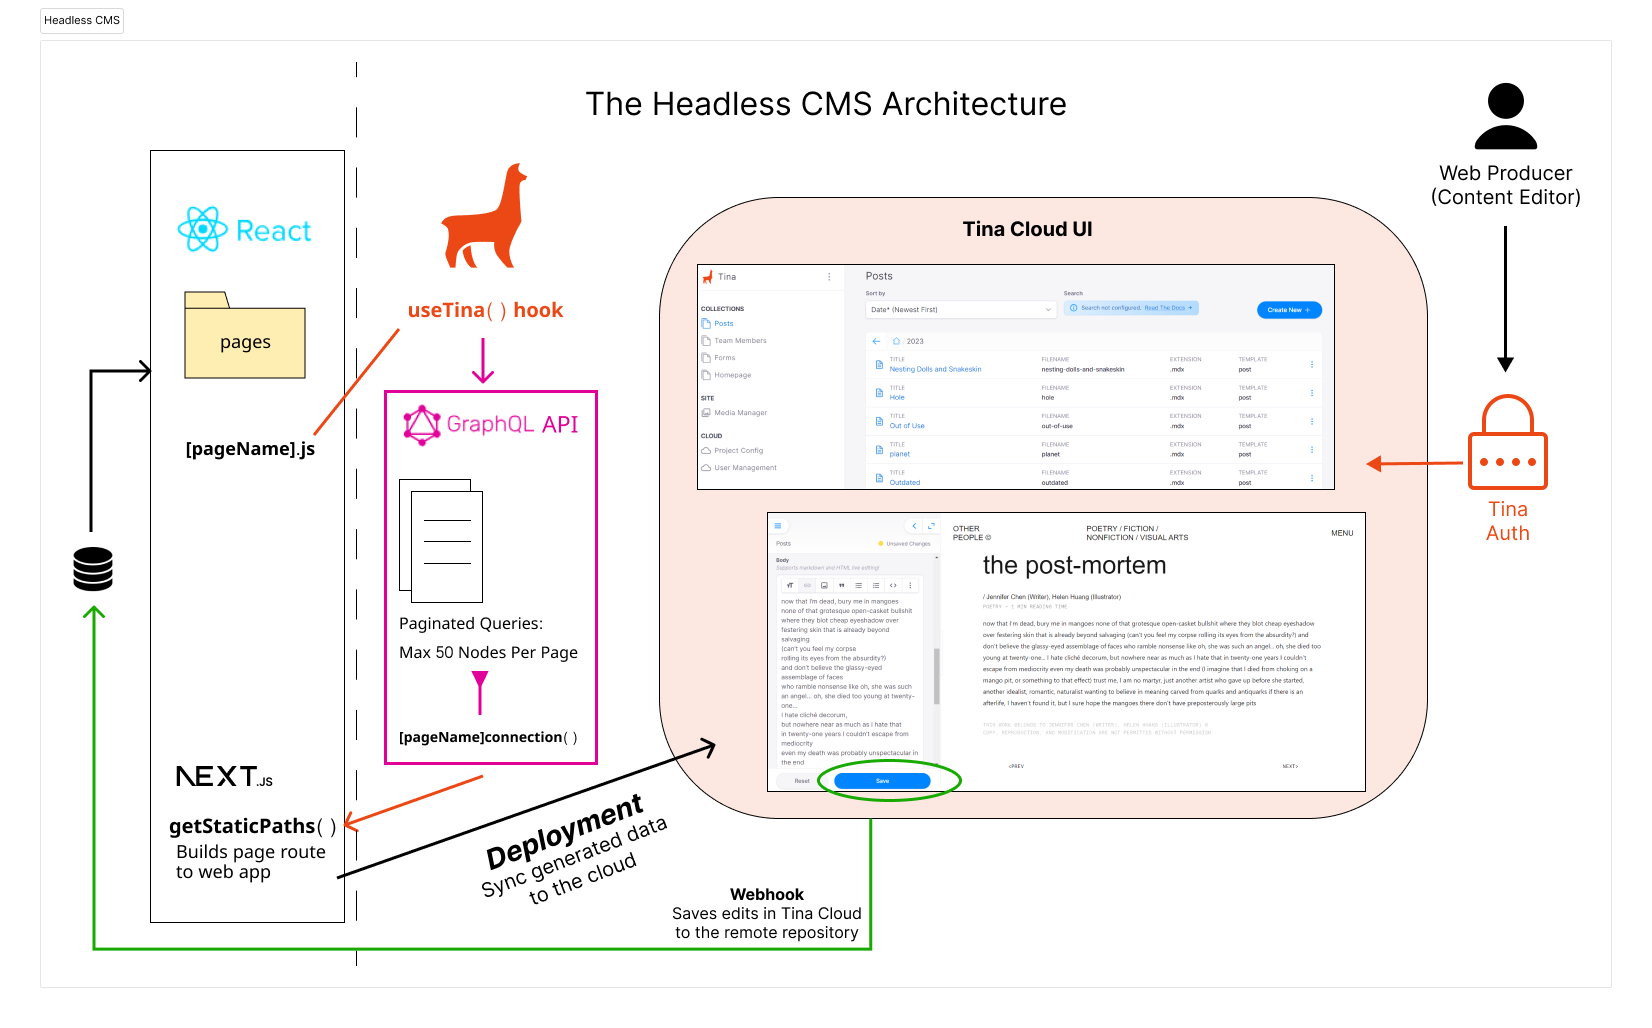
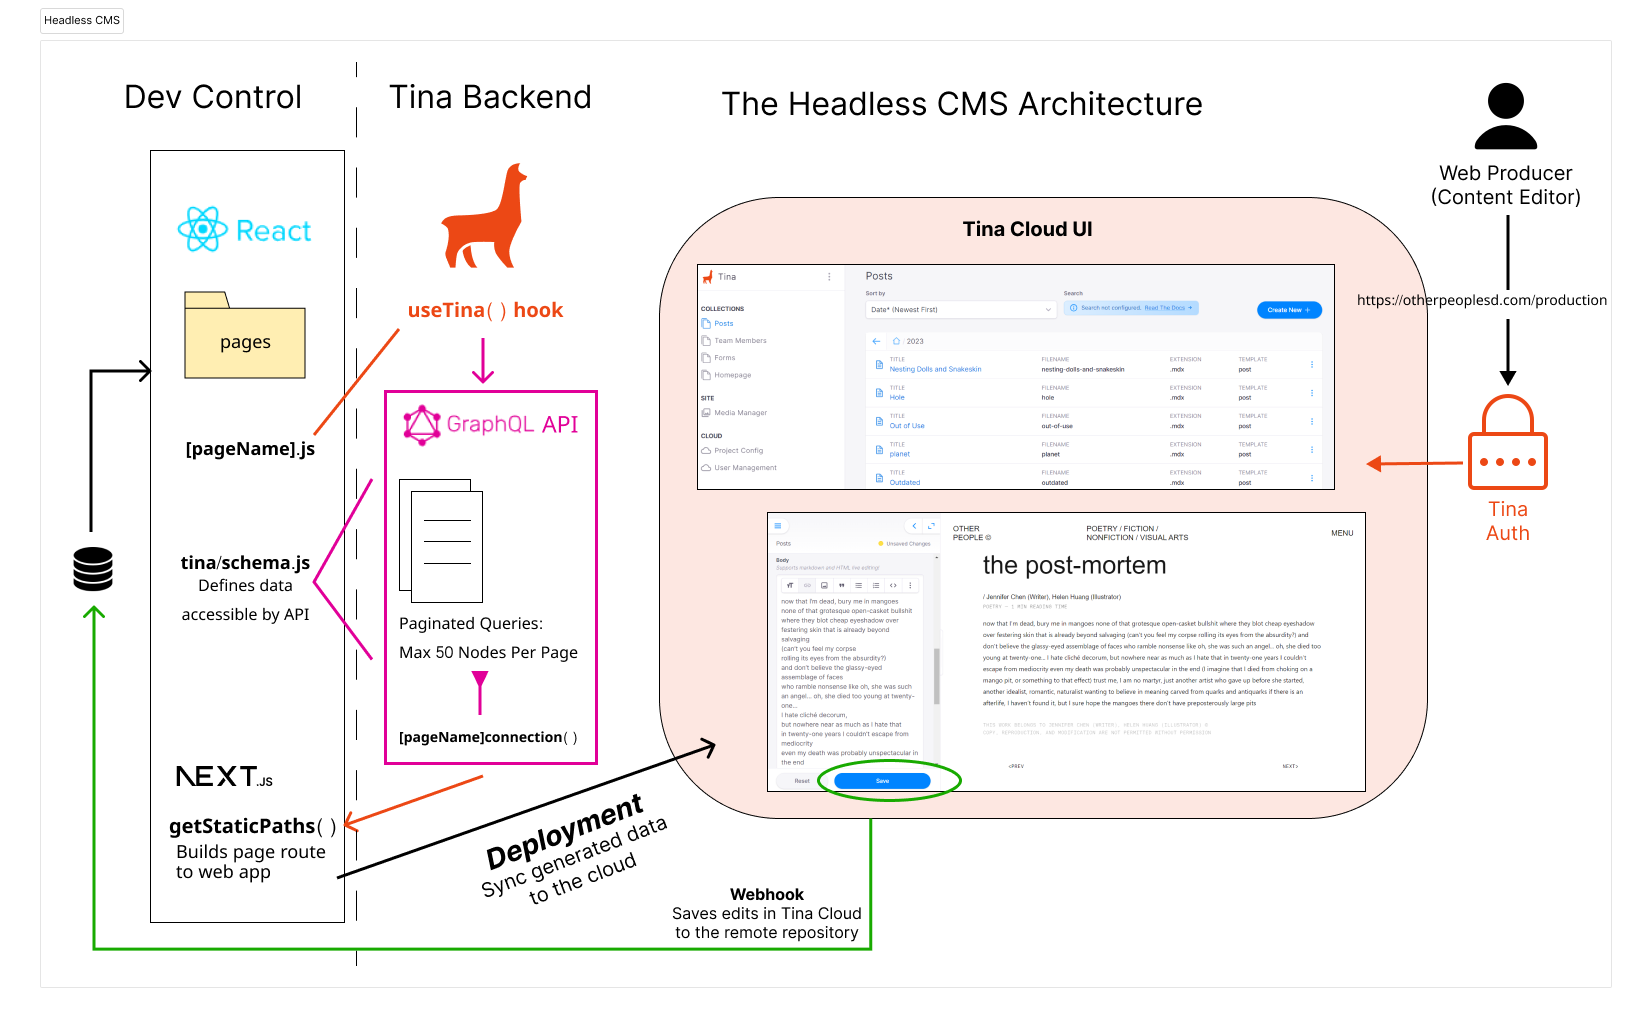
Top-level and SSG architecture

diff --git a/docs/calla-lily/architecture.md b/docs/calla-lily/architecture.md
@@ -5,10 +5,40 @@ contributor: Kevin Jang
 ---
 # Architecture
 
-## Headless CMS
-![System Diagram of the Headless CMS](./headless-cms-architecture.png)
+![A top-level view of the website's architecture and most important dependencies.](./top-level-architecture.png)
 
-## GitHub Repository
+The organization uses GitHub as a codebase for version control, data storage, and collaboration with other developers on the team for the budget available. The website is built in React because this allows it to be able to interact with many modern headless CMSes like TinaCMS for live editing functionality which a vanilla JS website would not be able to do. Next.js is the web framework that generates the website and its parent company Vercel is used for deployment because of first-class support for Next.js websites. 
+
+
+## Headless CMS: TinaCMS
+
+![System Diagram of the TinaCMS Headless CMS](./headless-cms-architecture.png)
+
+A headless CMS is a content management system where the content is separate from the interface with which it is managed by the editor. Developers use the API provided by the headless CMS to query the content into the interface and build interactivity. OPM's website uses the TinaCMS headless CMS to give our editors a simple UI with support for live editing while our developers benefit by maintaining the artistic integrity of custom-coded posts that cannot be done by a traditional CMS model. 
+
+This system diagram depicts how TinaCMS interacts with the data and editors. On the data side, the Github-stored dataset uses the React and Next.js frameworks to create the functional pages for posts. The Tina schema file must be defined by the developer to denote what data Tina is able to access. Only pages and their specified fields are able to be modified by TinaCMS, protecting other files from being modified by the CMS and other web producers who may accidentally cause a breaking change. The dashed line separates the data with the mounted CMS by using the useTina hook connection. This allows TinaCMS to query data from the dataset and autogenerate GraphQL nodes and functions to be used in the API. When the website gets built to deployment, the data evaluated in the Tina API is what will be displayed on the webpage through the getStaticPaths function that will generate the rendered pages.
+
+On the editor side, web producers must access the production site and log in through Tina's built-in authentication system which prevents outside adversaries from gaining control of the CMS. Once authenticated, producers will by able to view posts through the Tina Cloud UI. Tina Cloud is a remote view of the dataset independent of the stored dataset in GitHub. This means that edits on the remote Tina Cloud will not automatically show up on the rendered website until they push the change to the remote repository. This is accomplished through a webhook connection from Tina Cloud to the GitHub repository to sync edits on the cloud to the repository.
+
+## Static Site Generation using Next.js and Vercel
+
+![System Diagram of templating, static site generator, and server side rendering.](./ssg-architecture.png)
+
+Next.js is a framework used to build web applications. Built upon React, this allows Next.js to use HTML templates in the form of JSX to create HTML pages for the client. The templated files are composed of smaller components usually kept within the `components` directory and also the main content components within the `pages` and `_posts` directories. 
+
+:::note
+The search script requires the metadata of posts in order to work. To keep the pages within SSG for fast loading as compared to SSR, each page that uses the search must get the post metadata. However, the data is not fetched as a state variable in the search file but at the top-level `_app.js` file. To pass down the data without making a long dependency chain through files, a React context is used to directly access the data within `search.js`.
+:::
+
+The bottom-left block is the pipeline for how content from Markdown-HTML (MDX) files gets parsed into HTML for the static site generator (SSG). The data is not in fact accessed through Next.js as it has to be run through the TinaCMS connection for the live preview editor feature to work. We used a custom-built parser based off the `<TinaMarkdown />` component that TinaCMS uses in order to satisfy our use case. 
+
+The dynamic router is meant to create static paths for each posts without manually creating JS files for each one unlike the landing pages. Please read the Next.js documentation on dynamic routing and view the source code in `[...slug].js` to see how the router is made. The templated HTML with parsed HTML and dynamic routes are all sent into the Next.js CL/CI pipeline for static site generation where images and third-party scripts will be optimized using Next.js's functions. 
+
+In addition to SSG, server-side rendering (SSR) occurs to create API endpoints for both future data connections and also research. This API will function properly because the website is deployed on Vercel which has first-class support for SSR by converting the pages into serverless functions.
+
+## GitHub Repository Map
+
+This is an overview of important files and folders in the repository. Many of these have been shown in the website architecture for a more visual reference as to how they are used.
 
 ```
 /
